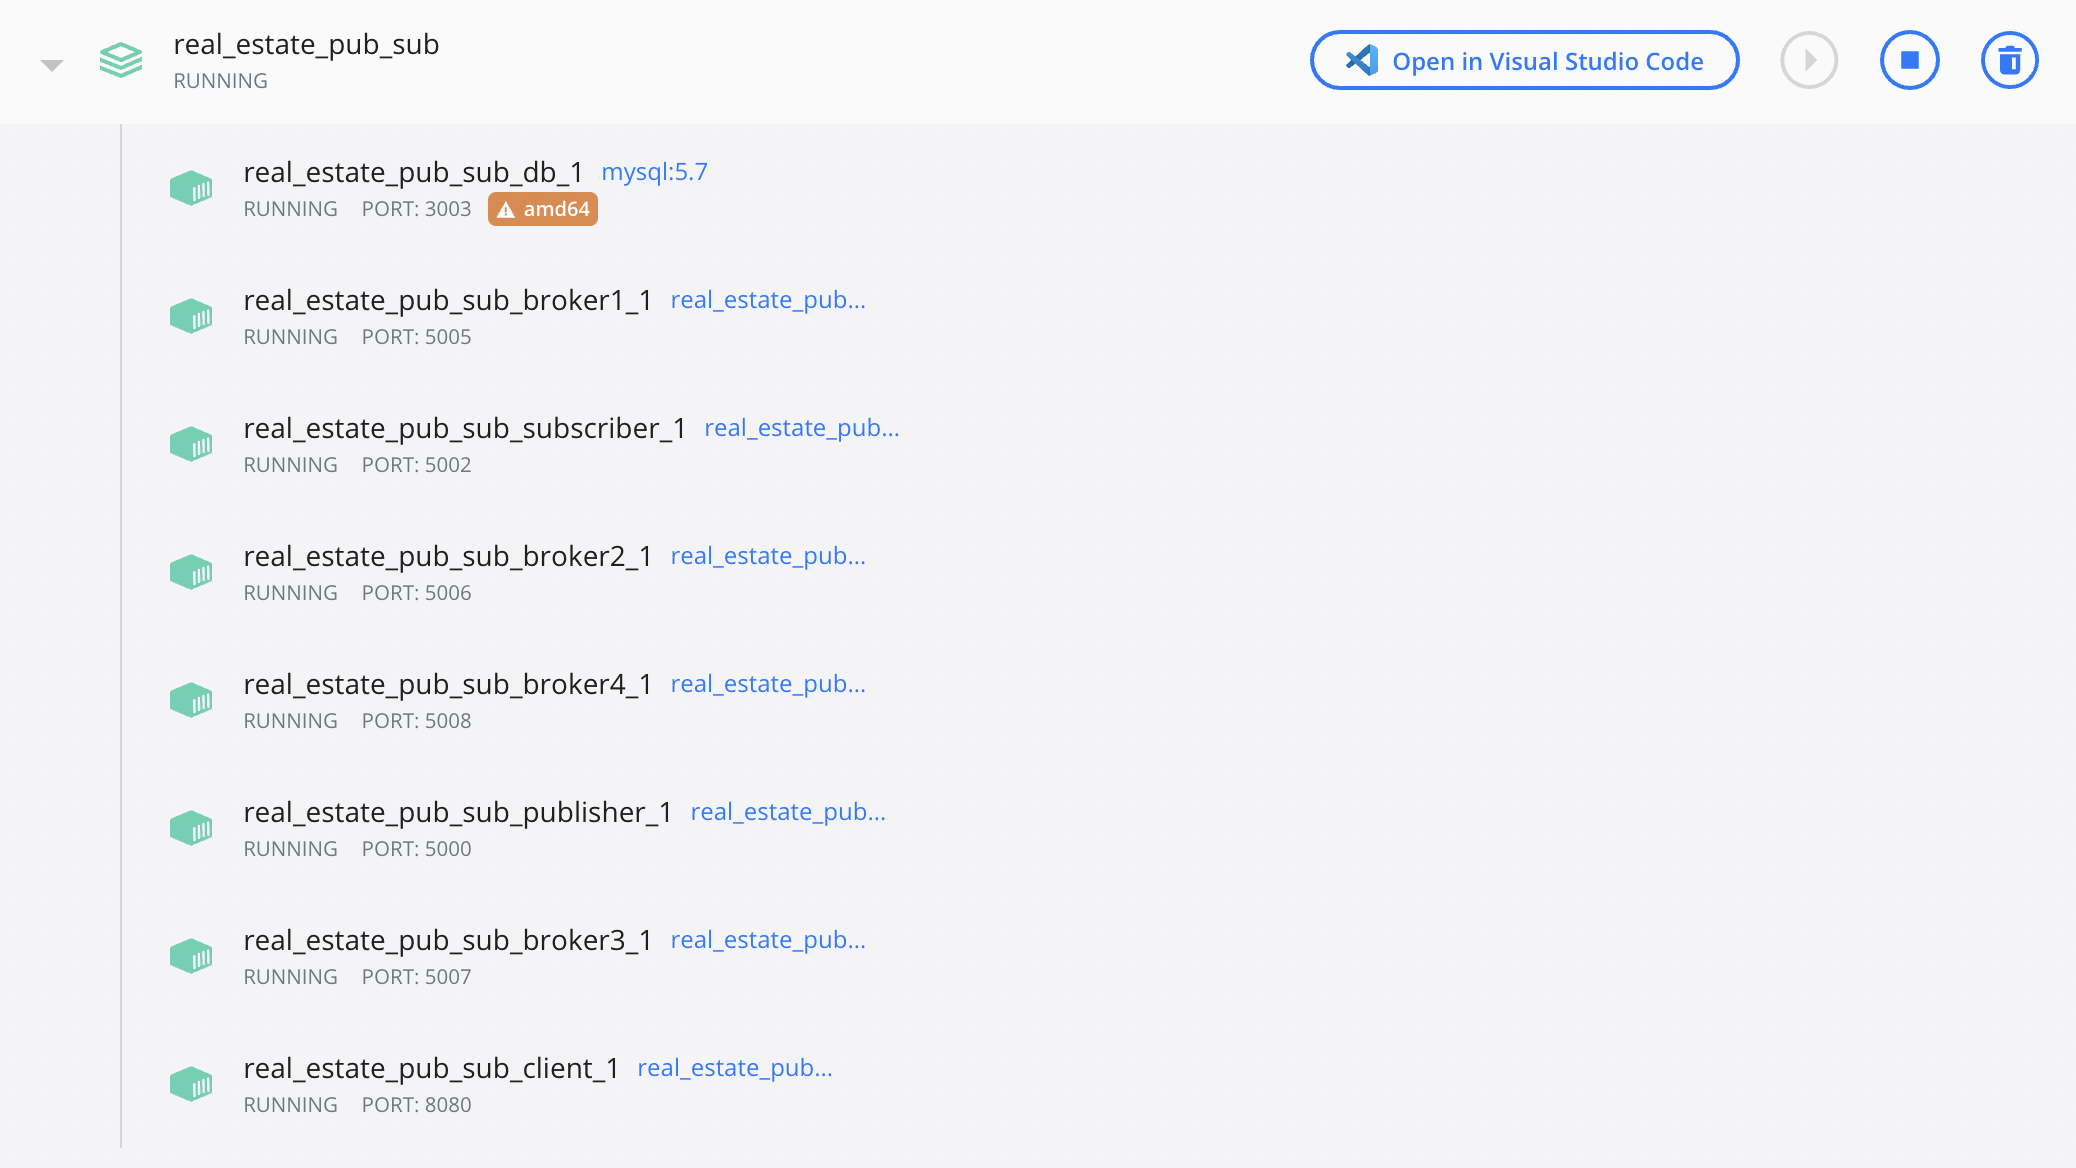
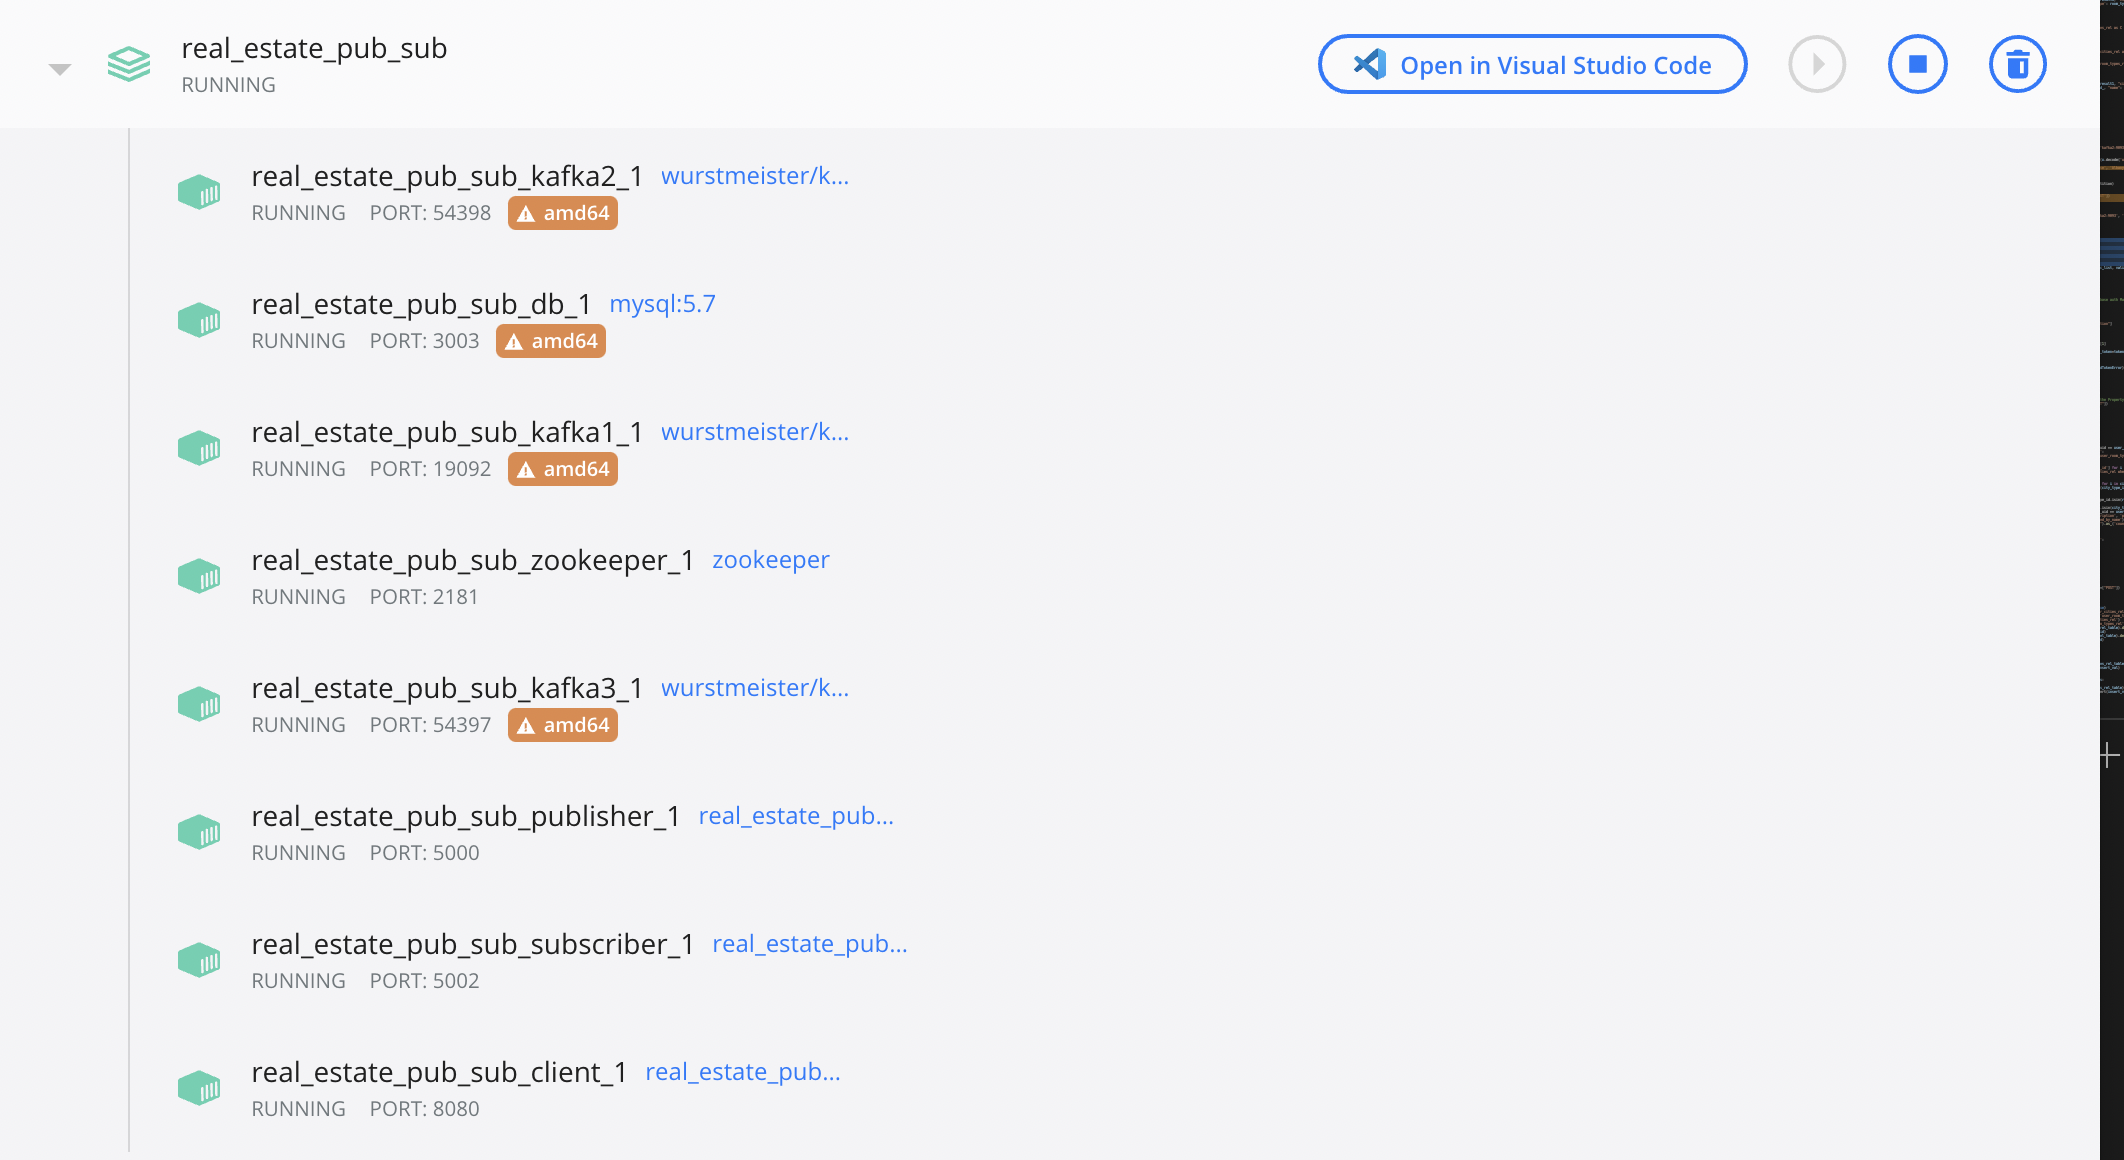
Readme changes

diff --git a/client/src/views/Home.vue b/client/src/views/Home.vue
@@ -202,6 +202,7 @@ export default {
     async routeToBrokerSetup() {
       try {
         await this.$axios.get(`http://localhost:5002/api/initializeKafka`)
+        this.$message.success('Topics initialized')
       } catch (error) {
         this.$message.error(error?.message || 'Server Error')
       }

diff --git a/subscriber/sub_app.py b/subscriber/sub_app.py
@@ -1,3 +1,4 @@
+from sys import flags
 from flask import Flask, request, abort
 from flask_cors import CORS
 import os
@@ -142,18 +143,28 @@ class consumerThread(threading.Thread):
 
     def run(self):
         # Web socket Initialization
-        sleep(60)
-        consumer = KafkaConsumer(
-            bootstrap_servers=['kafka1:9093', 'kafka2:9093', 'kafka3:9093'],
-            auto_offset_reset='earliest',
-            enable_auto_commit=True,
-            value_deserializer=lambda x: loads(x.decode('utf-8'))
-        )
-        consumer.subscribe(['Buffalo', 'Syracuse', 'Albany', 'NYC'])
-        for event in consumer:
-            app.logger.info(event)
-            event_data = event.value
-            notifyClient(event_data, event.partition)
+
+        app.logger.info('Kafka consumer')
+        sleep(30)
+        try:
+            consumer = KafkaConsumer(
+                bootstrap_servers=['kafka1:9093',
+                                   'kafka2:9093', 'kafka3:9093'],
+                auto_offset_reset='earliest',
+                enable_auto_commit=True,
+                value_deserializer=lambda x: loads(x.decode('utf-8'))
+            )
+            app.logger.info('Kafka consumer initialized')
+            consumer.subscribe(['Buffalo', 'Syracuse', 'Albany', 'NYC'])
+            app.logger.info('Kafka consumer subscribed')
+            for event in consumer:
+                app.logger.info(event)
+                event_data = event.value
+                notifyClient(event_data, event.partition)
+        except:
+            app.logger.info("Failed to initialize consumer")
+            consumer_thread = consumerThread()
+            consumer_thread.start()
 
 
 @app.route("/api/initializeKafka", methods=["GET"])
@@ -161,7 +172,7 @@ def initializeKafka():
 
     app.logger.info('Init Kafka')
     admin_client = KafkaAdminClient(
-        bootstrap_servers=['kafka1:9093', 'kafka2:9093', 'kafka3:9093'],
+        bootstrap_servers='kafka1:9093',
         client_id='test'
     )
     app.logger.info('Admin connected')

diff --git a/README.md b/README.md
@@ -2,32 +2,28 @@
 
 **Introduction**
 
-In the Real Estate Pub/Sub System, when a user subscribes to topics, the system notes the preferences of the subscriber and stores them for future use by the broker. Whenever a new property is added, the system will notify all the subscribed users.
+In the Real Estate Pub/Sub System, when a user subscribes to topics, the system notes the preferences of the subscriber and stores them for future use by the kafka cluster. Whenever a new property is added, the system will notify all the subscribed users.
 
 **How to deploy the application**
 
 1. Install Docker from the link based on your system preference ([https://docs.docker.com/get-docker/](https://docs.docker.com/get-docker/))
 2. Open Terminal and switch to the parent path of the downloaded source code(real_estate_pub_sub)
-3. This project uses ports 8080, 5000, 5002, 5005-5008 and 3003 on your local system hence ensure that these ports are free. In case they are used already use `lsof -i :<port number>` and kill the running port using `kill -9 <PID>` command from the terminal.
-4. Hit `docker compose up` command to start the build and deploy the image
+3. This project uses ports 8080, 5000, 5002, and 3003 on your local system hence ensure that these ports are free. In case they are used already use `lsof -i :<port number>` and kill the running port using `kill -9 <PID>` command from the terminal.
+4. Hit `docker compose up -d` command to start the build and deploy the image
 
 You find these images created for the client, publisher, subscriber, and database when you run `docker ps` command
 
-![Containers.png](asset-md/containers.png)
+![containers.png](asset-md/containers.png)
 
-Open a browser and enter http://localhost:8080/login to see the application running.
+Once all the containers are up wait for at least 2 minutes for the Kafka cluster setup and hit [http://localhost:8080/login](http://localhost:8080/login) in the browser to see the application running.
 
-[Pre-populated Login Credentials](https://www.notion.so/214e3136b14c43eeb3d14f7e4fb1b85b)
+[Pre-populated Login Credentials](asset-md/credentials.csv)
 
 You can log in using the above credentials. You can also Sign up as a new user.
 
 **Architecture Diagram**
 
-![Block Diagram.jpeg](asset-md/Block_diagram_.jpeg)
-
-**Interaction Diagram**
-
-![Real Estate Pub Sub Sequence diagram.jpeg](asset-md/Real_Estate_Pub_Sub_Sequence_diagram_.jpeg)
+![Kafka Architecture Diagram.png](asset-md/Kafka_Architecture_Diagram.png)
 
 **Publisher as a User**
 
@@ -57,10 +53,11 @@ You can log in using the above credentials. You can also Sign up as a new user.
   - Subscribers Properties list (Based on topics he has subscribed to)
 - The subscriber uses WebSocket to notify the users in real-time after getting the filtered list from the broker.
 
-**Broker Container(Port: 5005-5008)**
+**Kafka Cluster**
 
-- We’re implementing a centralized broker in our real estate pub/sub-model.
-- The broker is responsible for filtering the data published by the publisher or External Data source and notifying the subscriber based on their subscriptions.
+- We have implemented a Kafka cluster with 3 instances and a zookeeper in our real estate pub/sub-model.
+- Each instance is responsible for a topic and has 4 partitions with a replication factor of 3.
+- Zookeeper maintains the Kafka instances and assigns a leader for every topic.
 
 **Database Container(Port: 3003)**
 
@@ -77,7 +74,8 @@ Topics for Subscription is based on two fields
 1. Cities
    1. Buffalo
    2. Syracuse
-   3. NYC etc.,
+   3. Albany
+   4. NYC etc.,
 2. Room Types
    1. 1 BHK
    2. 2 BHK
@@ -91,25 +89,8 @@ For the External data source, we are using US real estate API provided by RAPID 
 
 Frontend → VueJS
 
-User Authentication → Firebase
+Broker → Kafka
 
 Database → MySQL
 
 Server → Python + Flask
-
-**Rendevous Implementation**
-
-![Rendevous.jpg](asset-md/Rendevous_.jpg)
-
-Going forward we now have deployed multiple instances of broker networks to distribute the load amongst them. To Distribute the load, each broker will be responsible for a specific set of topics where we have to ensure that at least one broker is responsible for a topic.
-
-Whenever there is an event from the publisher it hits the broker whichever is up and running and this broker checks if he is responsible for the event if so then the Event will be processed by this broker. In case if he is responsible for the topic the Broker will get the list of brokers who are responsible for the topic and passes the event to the responsible broker. The responsible broker list can be more than one and this passes to the broker who has a connection with the current broker network.
-
-Broker List and responsible topics(Cities):
-
-- Broker 1 ⇒ Buffalo, Syracuse, Albany
-- Broker 2 ⇒ NYC, Lancaster, Niagara Falls
-- Broker 3 ⇒ Newark, Philadelphia, Boston
-- Broker 4(Considered Backup) ⇒ Buffalo, NYC
-
-We have an admin user role who can manage the topics handled by each of these brokers which can be found in the settings popover.
